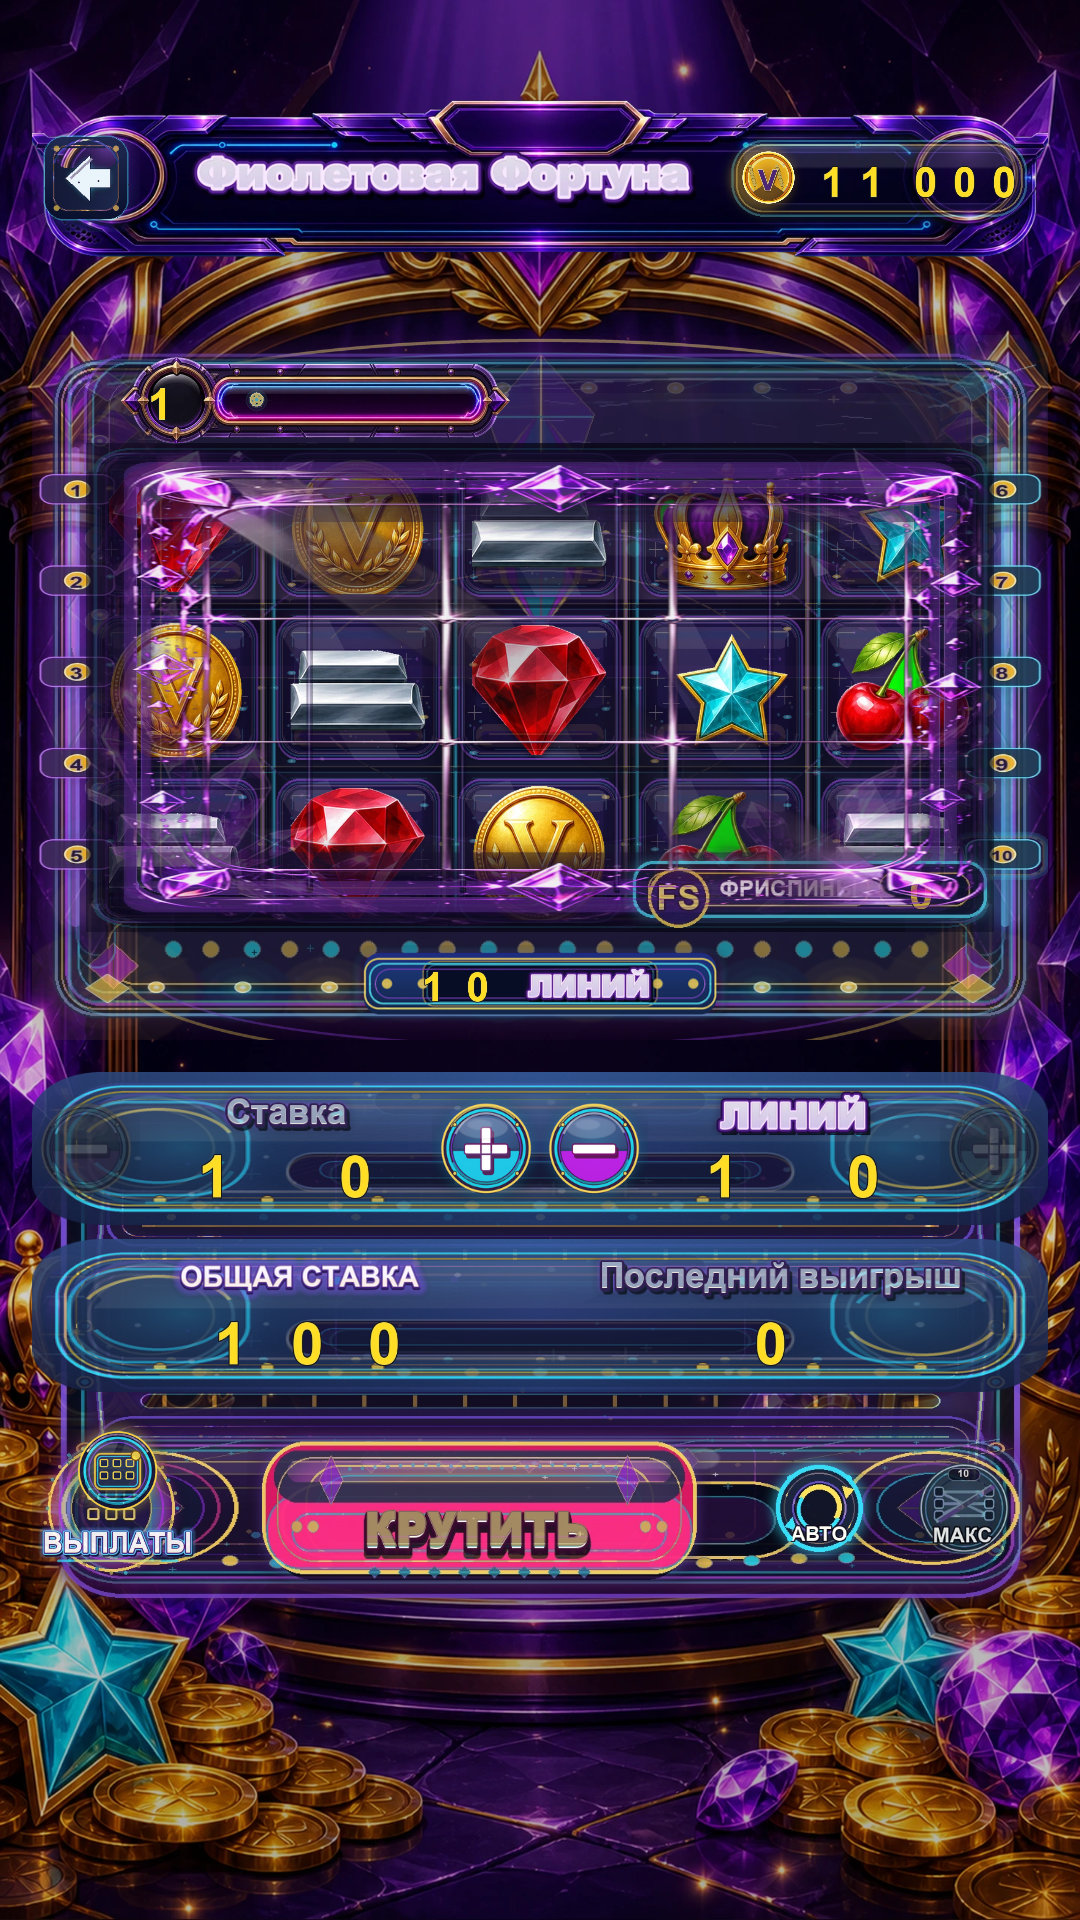
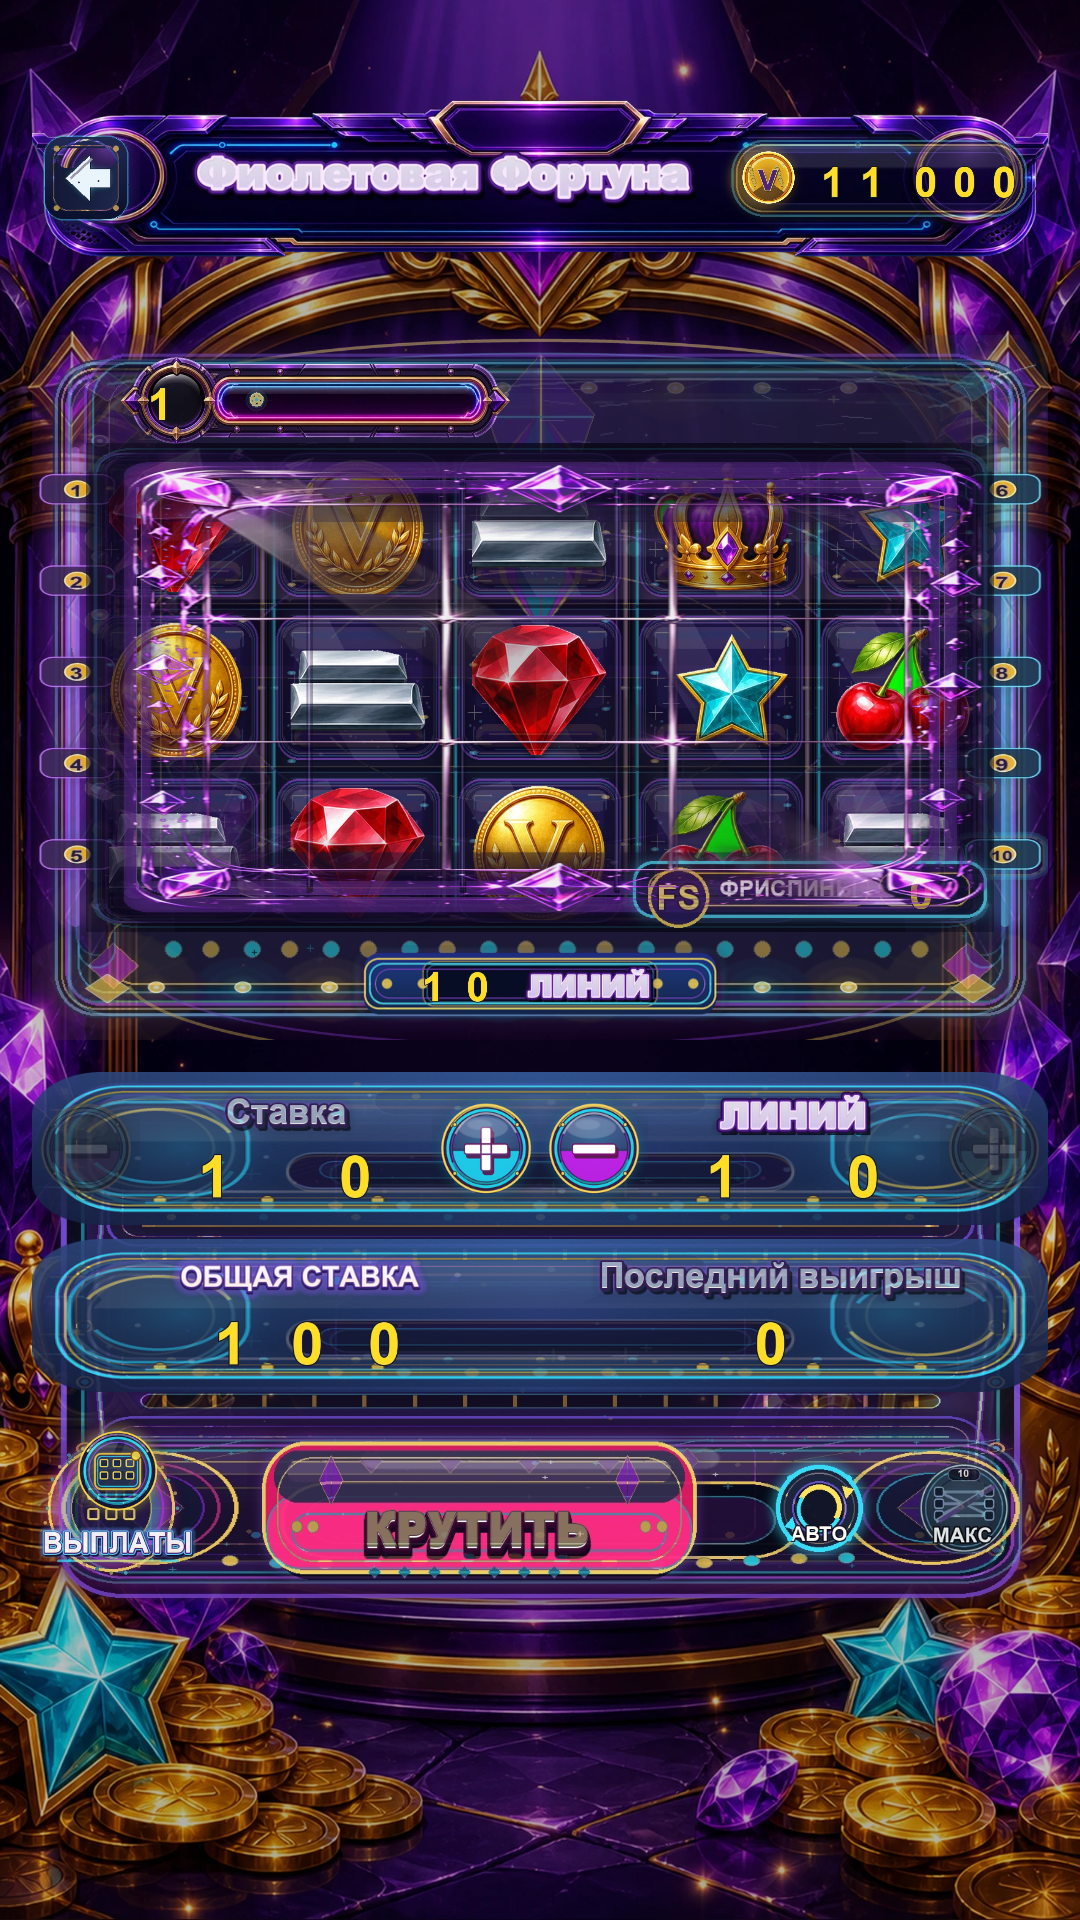
Stabilize release QA after dependency update

Changed region(s): [[0.275, 0.75, 0.6111, 0.8125], [0.2139, 0.375, 0.2444, 0.4375], [0.2444, 0.4375, 0.275, 0.4688]]

diff --git a/app/src/androidTest/java/com/vslot/app/MainActivitySmokeTest.kt b/app/src/androidTest/java/com/vslot/app/MainActivitySmokeTest.kt
@@ -505,12 +505,22 @@ class MainActivitySmokeTest {
                 assertViewFullyVisible(R.id.slotControlConsole)
                 assertViewFullyVisible(R.id.spinButton)
 
-                clickView(R.id.spinButton)
-                waitForContentDescription(
-                    R.id.spinButton,
-                    context.getString(R.string.spin_slam_stop)
-                )
-                clickView(R.id.spinButton)
+                clickViewWithoutRenderIdle(R.id.spinButton)
+                try {
+                    waitForContentDescription(
+                        R.id.spinButton,
+                        context.getString(R.string.spin_slam_stop)
+                    )
+                } catch (failure: AssertionError) {
+                    val failedState = runBlocking { AppGraph.playerRepository.playerState.first() }
+                    throw AssertionError(
+                        "Slot $slotId did not enter slam-stop state: " +
+                            "balance ${beforeSpin.coinsBalance} -> ${failedState.coinsBalance}, " +
+                            "animatorsEnabled=${ValueAnimator.areAnimatorsEnabled()}.",
+                        failure
+                    )
+                }
+                clickViewWithoutRenderIdle(R.id.spinButton)
                 waitForContentDescription(
                     R.id.spinButton,
                     context.getString(R.string.spin),
@@ -948,15 +958,15 @@ class MainActivitySmokeTest {
     fun backgroundingStopsAutospinBeforeAnotherSpinCanBeScheduled() {
         seedScenario("slot_multi_win")
 
-        launchMain(debugSlotId = "violet_fortune").use { scenario ->
+        launchMain(debugSlotId = "violet_fortune").use {
             val context = ApplicationProvider.getApplicationContext<Context>()
             waitForContentDescription(R.id.slotTitle, "Фиолетовая Фортуна")
 
             startPaidAutoSpin(context)
 
-            scenario.moveToState(Lifecycle.State.CREATED)
+            val backgroundedActivity = backgroundCurrentActivityWithoutRenderIdle()
             SystemClock.sleep(BACKGROUND_SETTLE_MS)
-            scenario.moveToState(Lifecycle.State.RESUMED)
+            foregroundMainActivityWithoutRenderIdle(backgroundedActivity)
 
             waitForContentDescription(R.id.autoSpinButton, context.getString(R.string.auto_spin_configure))
         }
@@ -975,10 +985,10 @@ class MainActivitySmokeTest {
                 lines = initialState.freeSpinLinesForSlot(FEATURE_RESUME_SLOT_ID)
             )
         )
-        launchMain(debugSlotId = FEATURE_RESUME_SLOT_ID).use { scenario ->
+        launchMain(debugSlotId = FEATURE_RESUME_SLOT_ID).use {
             waitForContentDescription(R.id.slotTitle, "Фиолетовая Фортуна")
             waitForContentDescription(R.id.autoSpinButton, context.getString(R.string.auto_spin_configure))
-            clickView(R.id.autoSpinButton)
+            clickViewWithoutRenderIdle(R.id.autoSpinButton)
             waitForContentDescriptionPrefix(
                 R.id.autoSpinButton,
                 context.dynamicCountPrefix(R.string.auto_spin_stop_free_spins)
@@ -988,7 +998,7 @@ class MainActivitySmokeTest {
                 assertTrue(state.shouldAutoPlayFreeSpinsForSlot(FEATURE_RESUME_SLOT_ID))
             }
 
-            scenario.moveToState(Lifecycle.State.CREATED)
+            val backgroundedActivity = backgroundCurrentActivityWithoutRenderIdle()
             val pausedFreeSpins = runBlocking {
                 AppGraph.playerRepository.playerState.first().freeSpinsForSlot(FEATURE_RESUME_SLOT_ID)
             }
@@ -1000,7 +1010,7 @@ class MainActivitySmokeTest {
                 }
             )
 
-            scenario.moveToState(Lifecycle.State.RESUMED)
+            foregroundMainActivityWithoutRenderIdle(backgroundedActivity)
             waitForContentDescriptionPrefix(
                 R.id.autoSpinButton,
                 context.dynamicCountPrefix(R.string.auto_spin_stop_free_spins)
@@ -1012,7 +1022,7 @@ class MainActivitySmokeTest {
                 assertTrue(remaining < pausedFreeSpins)
             }
 
-            clickView(R.id.autoSpinButton)
+            clickViewWithoutRenderIdle(R.id.autoSpinButton)
             waitForContentDescription(R.id.autoSpinButton, context.getString(R.string.auto_spin_configure))
             waitUntil {
                 val state = runBlocking { AppGraph.playerRepository.playerState.first() }
@@ -1168,9 +1178,16 @@ class MainActivitySmokeTest {
                 View.IMPORTANT_FOR_ACCESSIBILITY_NO,
                 findCurrentViewById(R.id.resultFreeSpinsAwardDigits)?.importantForAccessibility
             )
+            waitUntil {
+                val state = runBlocking { AppGraph.playerRepository.playerState.first() }
+                assertEquals(5, state.freeSpinsForSlot("violet_fortune"))
+            }
 
-            clickViewIfStillDisplayed(R.id.closeButton)
-            waitForContentDescription(R.id.freeSpinsRail, context.getString(R.string.free_spins_remaining, 5))
+            clickViewWithoutRenderIdle(R.id.closeButton)
+            waitForContentDescriptionPrefix(
+                R.id.freeSpinsRail,
+                context.dynamicCountPrefix(R.string.free_spins_remaining)
+            )
             waitForContentDescription(R.id.spinButton, context.getString(R.string.spin_free_spins))
             waitForContentDescriptionPrefix(
                 R.id.autoSpinButton,
@@ -1198,20 +1215,20 @@ class MainActivitySmokeTest {
         )
         val expectedBalance = RECREATE_STARTING_BALANCE - expectedResult.totalBet + expectedResult.winAmount
 
-        launchMain(debugSlotId = RECREATE_SLOT_ID).use { scenario ->
+        launchMain(debugSlotId = RECREATE_SLOT_ID).use {
             waitForContentDescription(R.id.slotTitle, "Фиолетовая Фортуна")
             assertEquals(
                 RECREATE_STARTING_BALANCE,
                 runBlocking { AppGraph.playerRepository.playerState.first() }.coinsBalance
             )
-            clickView(R.id.spinButton)
+            clickViewWithoutRenderIdle(R.id.spinButton)
             waitForContentDescription(
                 R.id.spinButton,
                 context.getString(R.string.spin_slam_stop)
             )
             waitForDisabled(R.id.paytableButton)
 
-            scenario.recreate()
+            recreateCurrentActivityWithoutRenderIdle()
 
             waitForContentDescription(R.id.slotTitle, "Фиолетовая Фортуна")
             waitForContentDescription(
@@ -1223,13 +1240,13 @@ class MainActivitySmokeTest {
                 R.id.resultFreeSpinsAwardGroup,
                 context.getString(R.string.result_free_spins_award, expectedResult.freeSpinsAwarded)
             )
-            clickView(R.id.closeButton)
+            clickViewWithoutRenderIdle(R.id.closeButton)
             waitForContentDescriptionPrefix(
                 R.id.autoSpinButton,
                 context.dynamicCountPrefix(R.string.auto_spin_stop_free_spins)
             )
             waitForEnabled(R.id.autoSpinButton)
-            clickView(R.id.autoSpinButton)
+            clickViewWithoutRenderIdle(R.id.autoSpinButton)
             waitForEnabled(R.id.paytableButton)
             waitUntil {
                 val state = runBlocking { AppGraph.playerRepository.playerState.first() }
@@ -1523,6 +1540,113 @@ class MainActivitySmokeTest {
         SystemClock.sleep(VIEW_ACTION_SETTLE_MS)
     }
 
+    private fun clickViewWithoutRenderIdle(@IdRes viewId: Int) {
+        waitUntil {
+            val view = findCurrentViewById(viewId)
+                ?: throw AssertionError("View $viewId is missing.")
+            if (!view.isEffectivelyDisplayed()) {
+                throw AssertionError("View $viewId is not displayed.")
+            }
+            if (!view.isEnabled) {
+                throw AssertionError("View $viewId is disabled.")
+            }
+            tapViewWithPointerInput(viewId, waitForRenderIdle = false)
+        }
+    }
+
+    private fun recreateCurrentActivityWithoutRenderIdle() {
+        val instrumentation = InstrumentationRegistry.getInstrumentation()
+        var originalActivity: FragmentActivity? = null
+        var failure: Throwable? = null
+        instrumentation.runOnMainSync {
+            try {
+                originalActivity = ActivityLifecycleMonitorRegistry
+                    .getInstance()
+                    .getActivitiesInStage(Stage.RESUMED)
+                    .filterIsInstance<FragmentActivity>()
+                    .lastOrNull()
+                    ?: throw AssertionError("No resumed activity is available for recreation.")
+                originalActivity?.recreate()
+            } catch (throwable: Throwable) {
+                failure = throwable
+            }
+        }
+        failure?.let { throw it }
+        waitUntil {
+            var recreatedActivity: FragmentActivity? = null
+            instrumentation.runOnMainSync {
+                recreatedActivity = ActivityLifecycleMonitorRegistry
+                    .getInstance()
+                    .getActivitiesInStage(Stage.RESUMED)
+                    .filterIsInstance<FragmentActivity>()
+                    .lastOrNull()
+            }
+            if (recreatedActivity == null || recreatedActivity === originalActivity) {
+                throw AssertionError("Recreated activity has not resumed yet.")
+            }
+        }
+    }
+
+    private fun backgroundCurrentActivityWithoutRenderIdle(): FragmentActivity {
+        val instrumentation = InstrumentationRegistry.getInstrumentation()
+        var backgroundedActivity: FragmentActivity? = null
+        var failure: Throwable? = null
+        instrumentation.runOnMainSync {
+            try {
+                backgroundedActivity = ActivityLifecycleMonitorRegistry
+                    .getInstance()
+                    .getActivitiesInStage(Stage.RESUMED)
+                    .filterIsInstance<FragmentActivity>()
+                    .lastOrNull()
+                    ?: throw AssertionError("No resumed activity is available for backgrounding.")
+                if (backgroundedActivity?.moveTaskToBack(true) != true) {
+                    throw AssertionError("Activity task could not be moved to the background.")
+                }
+            } catch (throwable: Throwable) {
+                failure = throwable
+            }
+        }
+        failure?.let { throw it }
+        val activity = backgroundedActivity
+            ?: throw AssertionError("Backgrounded activity is missing.")
+        waitUntil {
+            var isStopped = false
+            instrumentation.runOnMainSync {
+                isStopped = ActivityLifecycleMonitorRegistry
+                    .getInstance()
+                    .getActivitiesInStage(Stage.STOPPED)
+                    .contains(activity)
+            }
+            if (!isStopped) {
+                throw AssertionError("Backgrounded activity has not stopped yet.")
+            }
+        }
+        return activity
+    }
+
+    private fun foregroundMainActivityWithoutRenderIdle(expectedActivity: FragmentActivity) {
+        val context = ApplicationProvider.getApplicationContext<Context>()
+        context.startActivity(
+            Intent(context, MainActivity::class.java)
+                .addFlags(Intent.FLAG_ACTIVITY_NEW_TASK)
+                .addFlags(Intent.FLAG_ACTIVITY_REORDER_TO_FRONT)
+                .addFlags(Intent.FLAG_ACTIVITY_SINGLE_TOP)
+        )
+        waitUntil {
+            var resumedActivity: FragmentActivity? = null
+            InstrumentationRegistry.getInstrumentation().runOnMainSync {
+                resumedActivity = ActivityLifecycleMonitorRegistry
+                    .getInstance()
+                    .getActivitiesInStage(Stage.RESUMED)
+                    .filterIsInstance<FragmentActivity>()
+                    .lastOrNull()
+            }
+            if (resumedActivity !== expectedActivity) {
+                throw AssertionError("Backgrounded activity has not returned to the foreground.")
+            }
+        }
+    }
+
     private fun clickViewIfStillDisplayed(@IdRes viewId: Int) {
         val view = findCurrentViewById(viewId)
         if (view?.isEffectivelyDisplayed() != true) return
@@ -1533,7 +1657,10 @@ class MainActivitySmokeTest {
         }
     }
 
-    private fun tapViewWithPointerInput(@IdRes viewId: Int) {
+    private fun tapViewWithPointerInput(
+        @IdRes viewId: Int,
+        waitForRenderIdle: Boolean = true
+    ) {
         val instrumentation = InstrumentationRegistry.getInstrumentation()
         val visibleBounds = Rect()
         var failure: Throwable? = null
@@ -1578,7 +1705,9 @@ class MainActivitySmokeTest {
         } finally {
             upEvent.recycle()
         }
-        instrumentation.waitForIdleSync()
+        if (waitForRenderIdle) {
+            instrumentation.waitForIdleSync()
+        }
     }
 
     private fun findCurrentViewById(@IdRes viewId: Int): View? {

diff --git a/THIRD_PARTY_NOTICES.md b/THIRD_PARTY_NOTICES.md
@@ -1,6 +1,6 @@
 # Third-Party Notices
 
-Inventory reviewed: 2026-07-18.
+Inventory reviewed: 2026-08-03.
 
 This inventory is tied to the external artifacts actually resolved from
 `releaseRuntimeClasspath`, not only direct `implementation` declarations.
@@ -32,8 +32,8 @@ androidx.collection:collection-jvm:1.5.0 | Apache-2.0
 androidx.collection:collection-ktx:1.5.0 | Apache-2.0
 androidx.compose.runtime:runtime-annotation-android:1.9.0 | Apache-2.0
 androidx.concurrent:concurrent-futures:1.1.0 | Apache-2.0
-androidx.constraintlayout:constraintlayout-core:1.1.1 | Apache-2.0
-androidx.constraintlayout:constraintlayout:2.2.1 | Apache-2.0
+androidx.constraintlayout:constraintlayout-core:1.1.2 | Apache-2.0
+androidx.constraintlayout:constraintlayout:2.2.2 | Apache-2.0
 androidx.coordinatorlayout:coordinatorlayout:1.1.0 | Apache-2.0
 androidx.core:core-ktx:1.18.0 | Apache-2.0
 androidx.core:core-viewtree:1.0.0 | Apache-2.0
